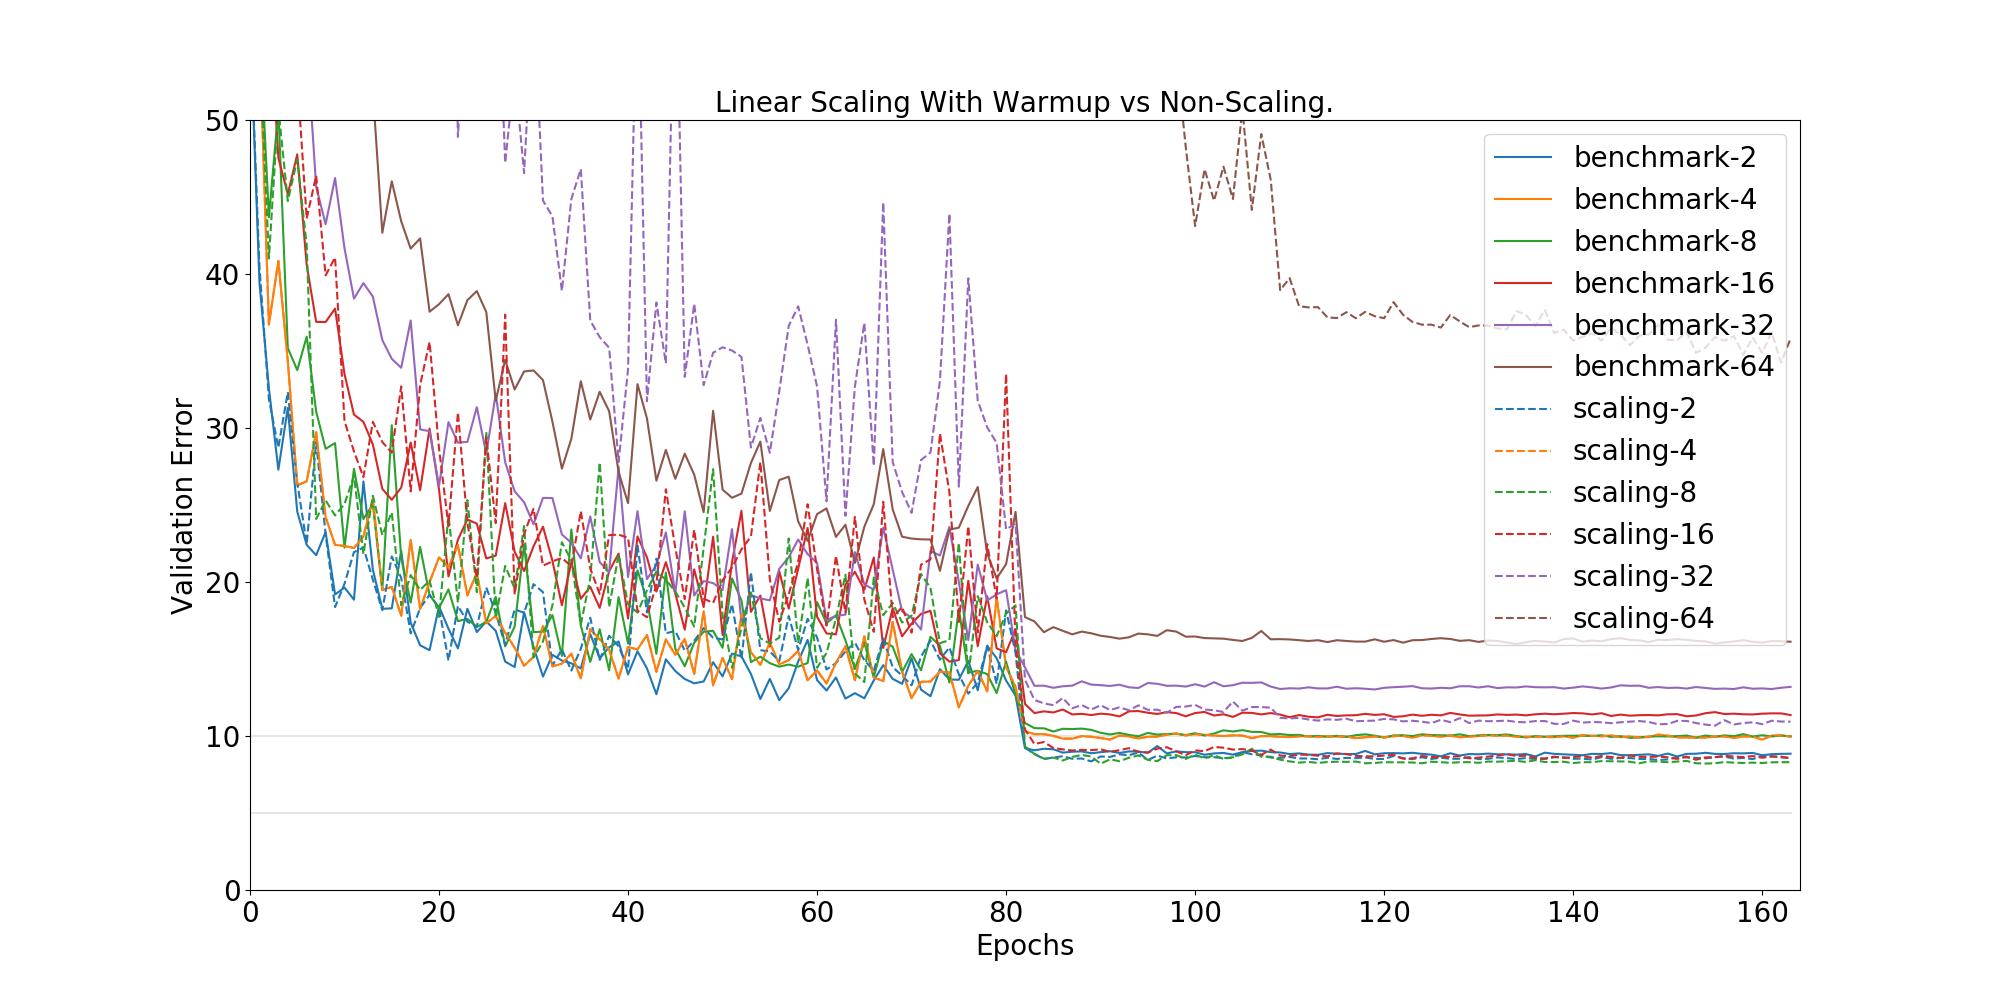
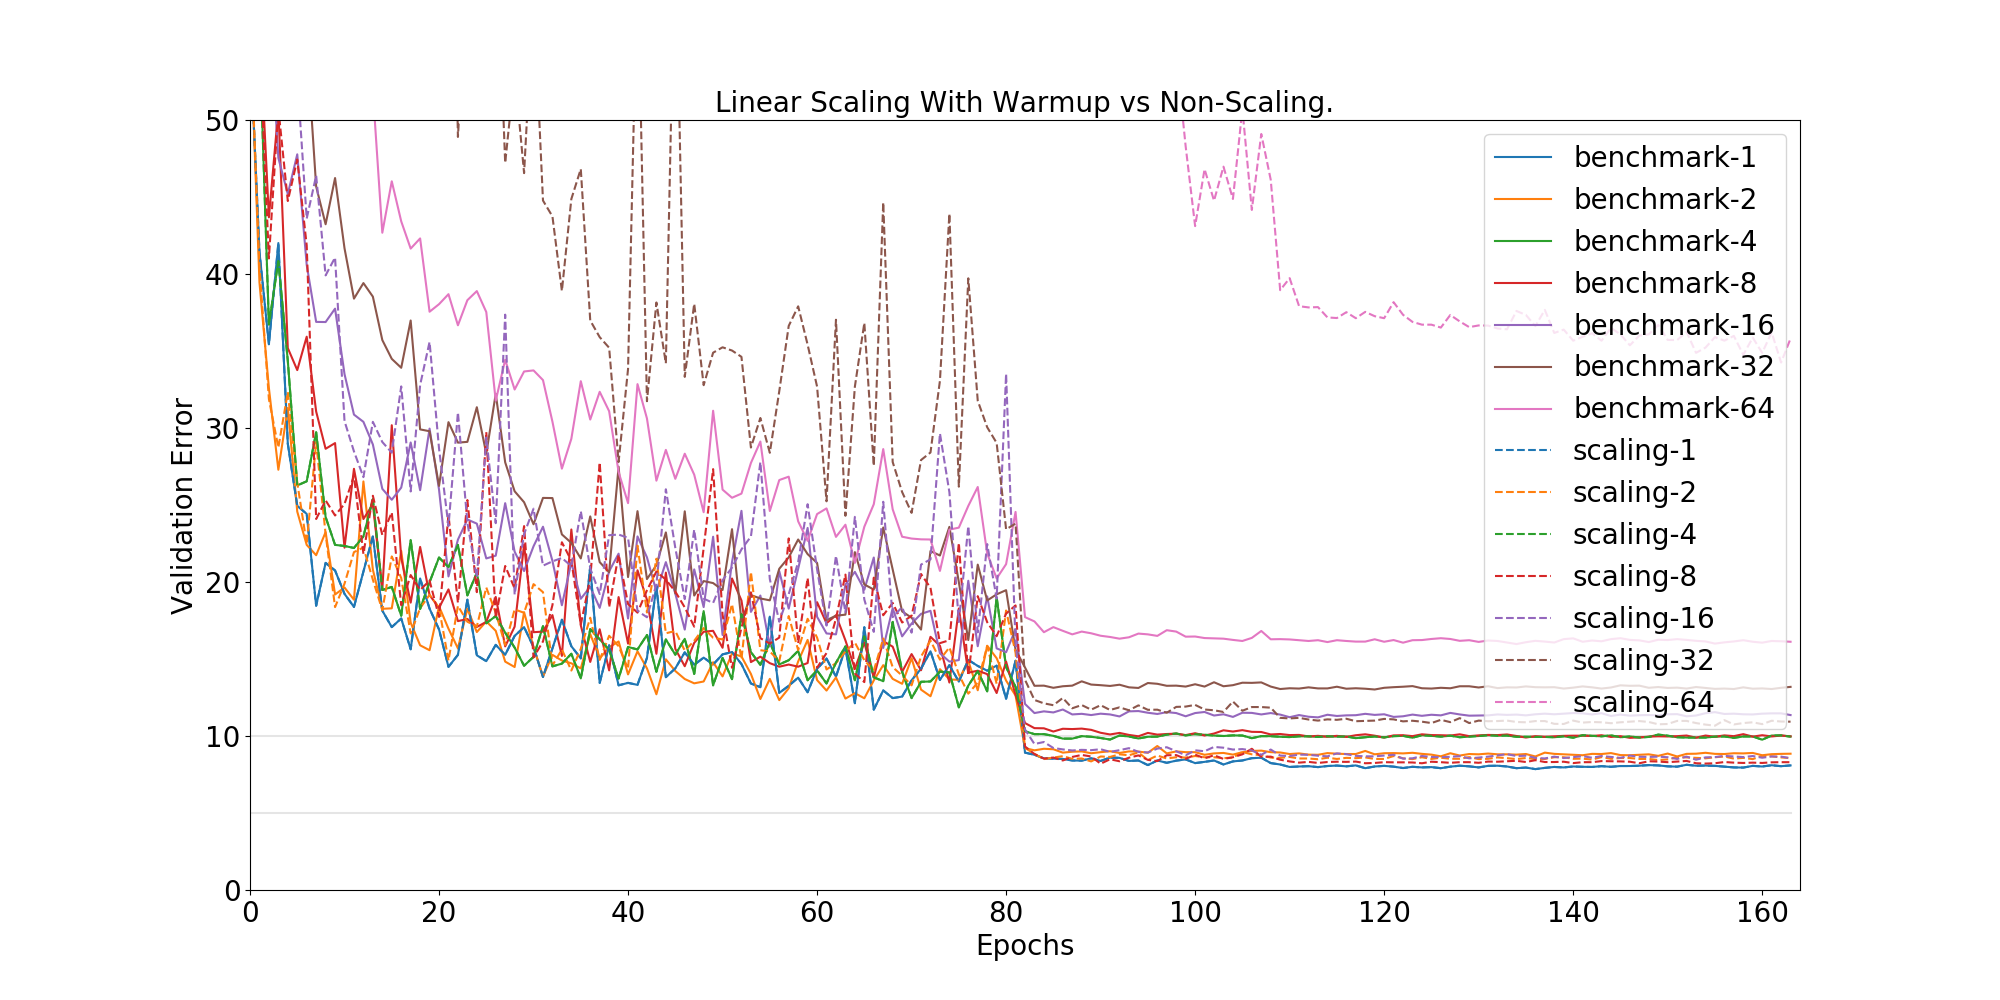
Update scaling experiment with K=1.

diff --git a/benchmark-tasks.rst b/benchmark-tasks.rst
@@ -135,31 +135,15 @@ Implementation details:
 
 Here we present the results for scaling task.
 
-* The first figure is the validation error rate for linear scaling scheduler and benchmark with different cluster size. For 2, 4, 8, 16 nodes, scaling the size of cluster gives same accuracy within same number of epochs. The global batch size is 2048 when the number of nodes is 16. For 32 or more nodes, the validation error is higher but is still decreasing; they need more epochs to converge considering there are less iterations. For all cases except 64 nodes, using linear scaling scheduler gives higher accuracy and better convergence speed.
+* The first figure is the validation error rate for linear scaling scheduler and benchmark with different cluster size. For 1, 2, 4, 8, 16 nodes, scaling the size of cluster gives same accuracy within same number of epochs. The global batch size is 2048 when the number of nodes is 16. For 32 or more nodes, the validation error is higher but is still decreasing; they need more epochs to converge considering there are less iterations. For all cases except 64 nodes, using linear scaling scheduler gives higher accuracy and better convergence speed.
 
 .. image:: images/scaling_epoch_prec1.png
     :align: center
 
-* The next figure compares the actual throughput and expected throughput. Since all of the nodes use same hardwares, the perfect throughput is linearly dependent on the number of nodes. The actual throughput is marginally below than the perfect scaling due to the communication cost.
+* The second figure shows speedups of time-to-accuracy for Top-1 accuracy in 70%, 75%, 80%, 85%, 90%, 91%. Note that the 0 speedup means specified accuracy is not reached within the predefined maximum epochs. The linear scaling rule does not outperform baseline for accuracy <= 85%. However, in order to reach 90%+ accuracy,  using linear scaling is much better than the baseline.
 
-.. image:: images/scaling-throughput.png
-    :scale: 48
+.. image:: images/val_tta.png
     :align: center
-
-* The left hand side figure compares the time to 70% and 80% accuracy for different number of nodes.
-  70% accuracy is easy to reach for all of the tests and the time-to-accuracy decreases with the number of nodes.
-  For time-to-80%-accuracy, however, it spends more time on 64 nodes rather than 32 nodes.
-* The right figure compares the cost of experiment. Note that a regular n1-standard-4 instance costs $0.1900 per hour and
-  a preemptible one costs only $0.04. For experiments with 16 nodes or more, the task finishes with 24 hours and thus we can
-  use preemptible instance. The cost can be reduced correspondingly.
-
-|pic3| |pic4|
-
-.. |pic4| image:: images/scaling-time-cost.png
-    :scale: 48
-
-.. |pic3| image:: images/scaling-time-prec1.png
-    :scale: 48
 
 1b. Image Classification (ResNet, ImageNet)
 ~~~~~~~~~~~~~~~~~~~~~~~~~~~~~~~~~~~~~~~~~~~
